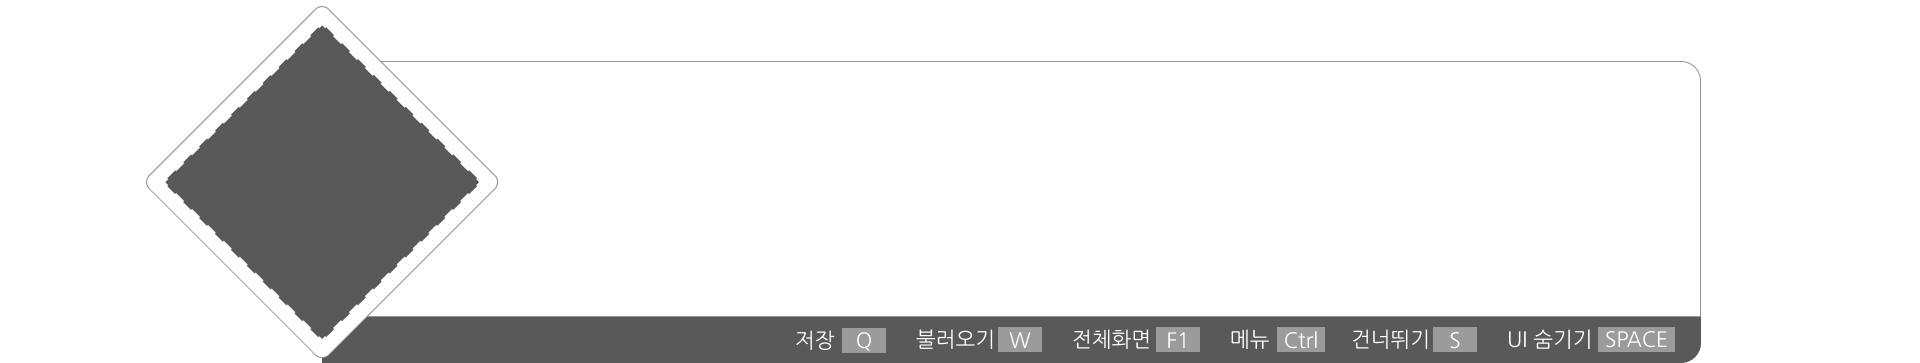
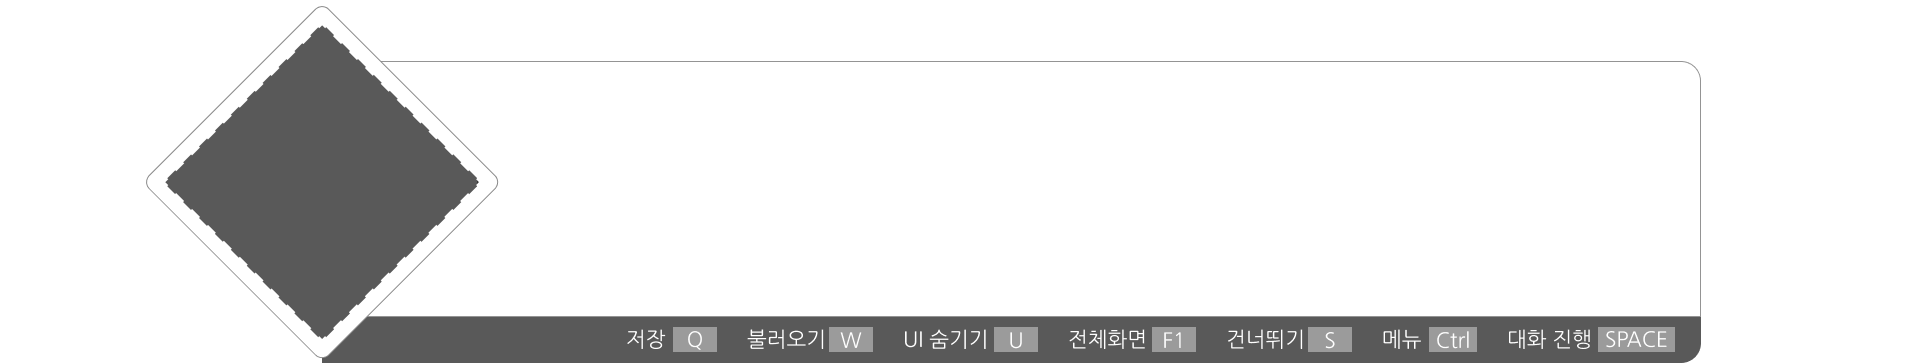
키커맨드 수정, UI숨기기>[U] / 대화진행>[SPACE], 텍스트박스 UI 리소스 수정

Changed region(s): [[0.3125, 0.8788, 0.8438, 0.9697]]

diff --git a/data/system/KeyConfig.js b/data/system/KeyConfig.js
@@ -1,8 +1,9 @@
 var __tyrano_key_config = {
 	"key": {
-		"32": "hidemessage",
+		"32": "next",
 		"81": "save",
 		"83": "skip",
+		"85": "hidemessage",
 		"87": "load",
 		"112": "fullscreen"
 	},
